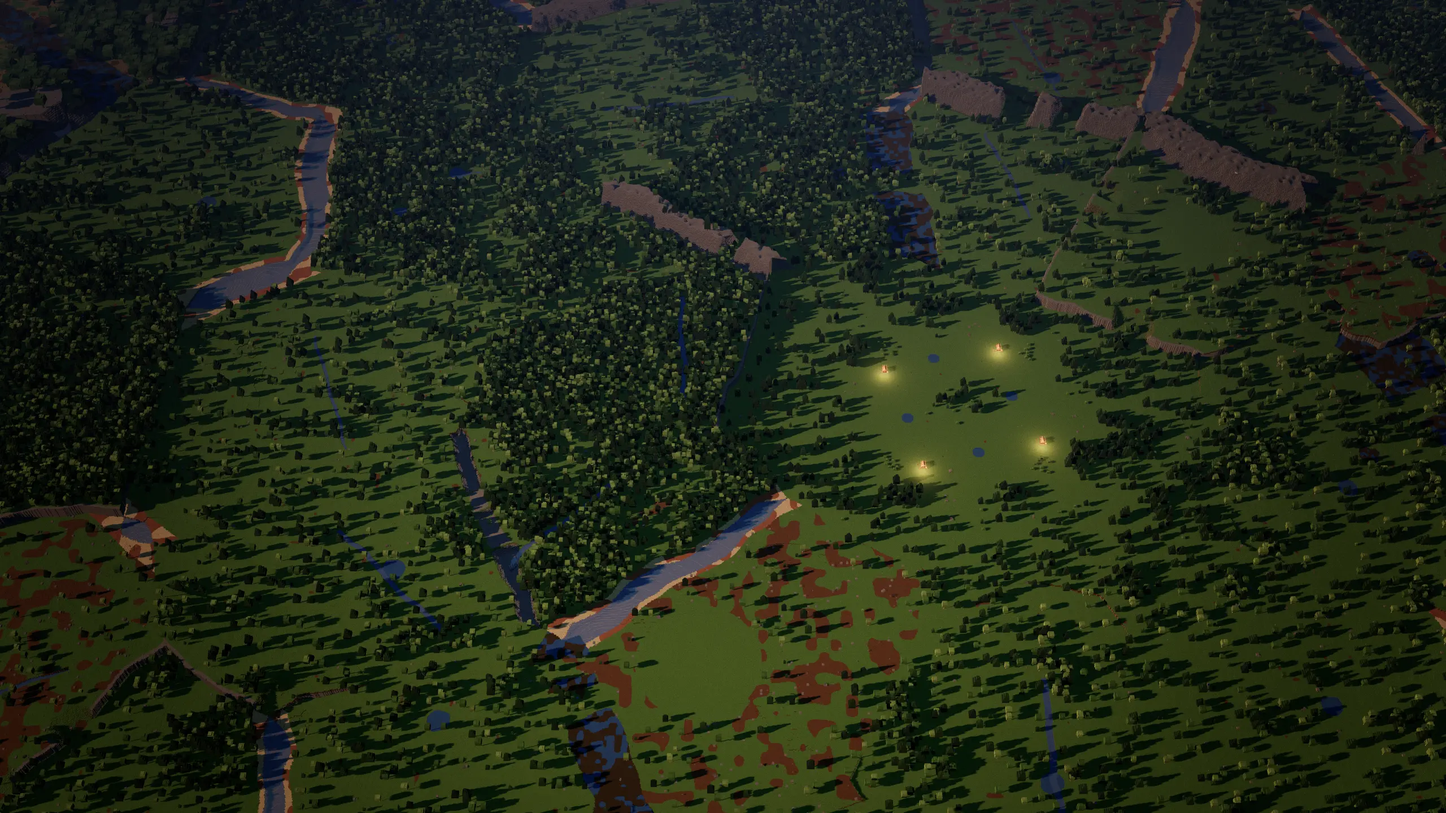
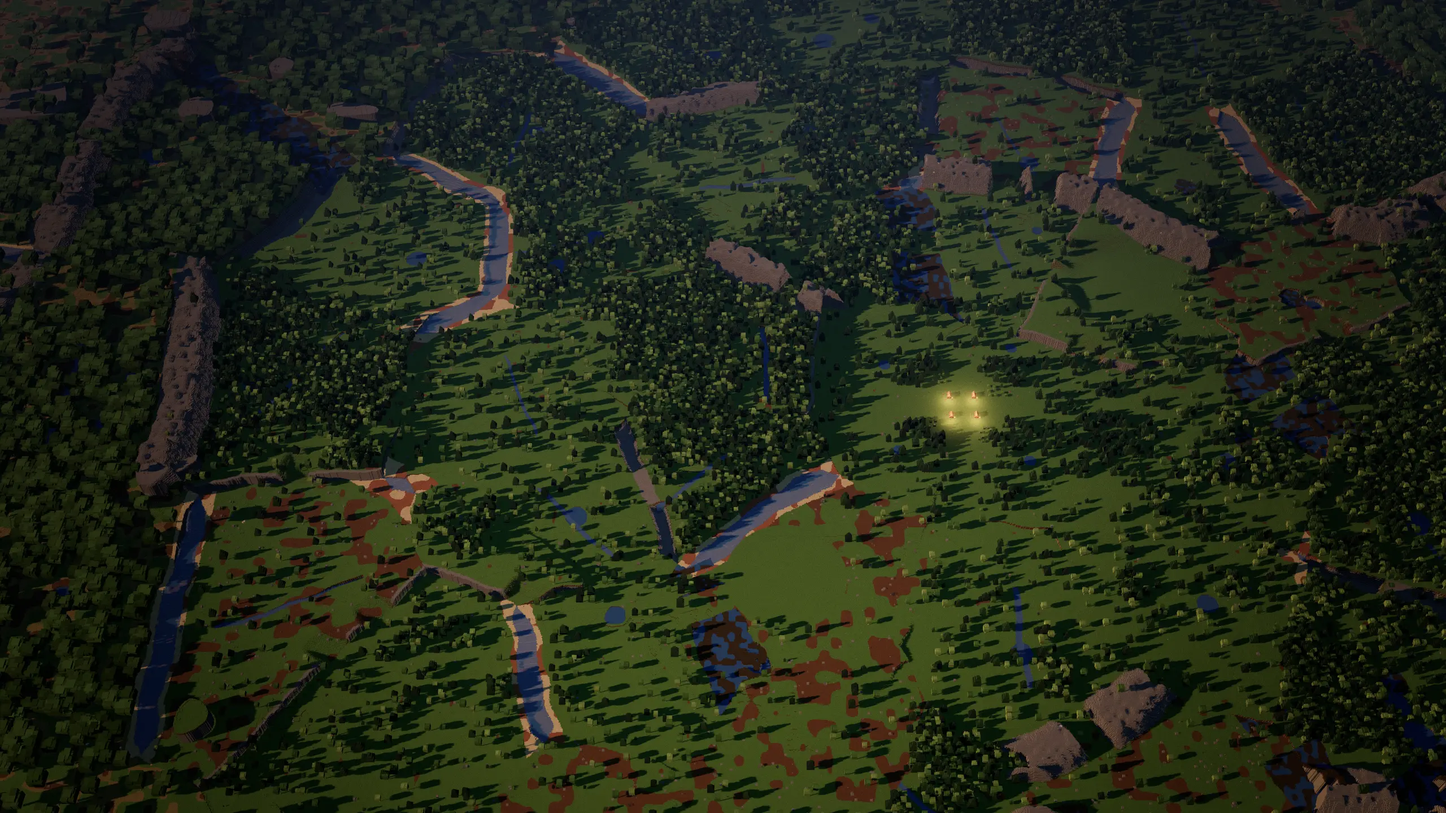
Mini patch: check scripts, README tester section and the lobby picture
The M1 script digs and walks where the two pockets now stand, and the M5
script's dawn threats come in to 70% so its goblin village stands in the
Heartland as before. The README gains a tester section for the mini
patch, its two-player steps say the bases stand 10 to 15 m apart, and
every check-script hash is the current one. The lobby picture is
rendered again with the four camps together.

Claude-Session: https://claude.ai/code/session_01JtCkLcL6SGd2igrQfG6k8f

diff --git a/README.md b/README.md
@@ -105,7 +105,7 @@ steps from seed 1 in Node, Chrome and Firefox and get three identical state
 hashes; a scripted order list replays to the same hash.*
 
 1. `pnpm sim:run --seed 1 --steps 10000 --orders packages/tools/orders/m0-demo.json --quiet`
-   prints `final step 10000 hash 9576406b`. Run it again: the same hash. (The
+   prints `final step 10000 hash 27544deb`. Run it again: the same hash. (The
    M0, M1, M2 and M4 scripts run with `"peaceful": true`, no night mobs, so they
    keep checking the world and the economy; M3's script has the monsters.)
 2. `pnpm test` runs the same seed and script in Node twice and in headless
@@ -114,7 +114,7 @@ hashes; a scripted order list replays to the same hash.*
 3. In a real Chrome or Firefox: `pnpm dev`, open http://localhost:5173/?seed=1
    and watch the step counter and the hash (taken every 20 steps). Until you
    give an order, every machine and browser shows the same hash at the same
-   step as the headless runner with no script: for seed 1 that is `38f7d02b`
+   step as the headless runner with no script: for seed 1 that is `cf52a6d8`
    at step 40 (`pnpm sim:run --seed 1 --steps 40`). Right-click the ground to
    move your units, which changes the hash from then on.
 
@@ -129,7 +129,9 @@ reveal; two machines with the same seed show the same land and the same hash.*
    pick the number of players and press Start. The camera starts over your
    Big House and four workers in your pocket: flat grass with a pond or a
    stream, hazel, trees, loose stone and flint nearby, and the rest of the
-   land black until explored.
+   land black until explored. With two or more players the others' Big
+   Houses stand 10 to 15 m away (see "How a tester checks Jade's mini
+   patch").
 2. Pan with the screen edges, the arrow keys or a middle-button drag; zoom
    with the wheel or Page Up and Page Down; Home resets the zoom. Right-click
    to walk your units out: the land they see turns from black to colour,
@@ -143,15 +145,15 @@ reveal; two machines with the same seed show the same land and the same hash.*
    explores 150 m round the middle of the view, and the minimap fills in
    behind it. **Show all** draws the land without fog on your screen only,
    so you can pan across cells, barrier edges (low hills, ridges, cliffs,
-   ravines, rivers, marshes), their gaps, fords and the next pockets.
+   ravines, rivers, marshes), their gaps and fords.
    **Dig** and **Raise** change the land in the middle of the view, and water
    next to a dug pit flows into it. **Fell** takes everything from the
    selected trees, bushes and rocks: trees fall and drop seeds.
 4. Two machines: open the same seed and player count on both and compare the
    hash in the debug panel at the same step: for seed 1 with one player it is
-   `38f7d02b` at step 40, with two players `a46535dd`. The land matches too.
+   `cf52a6d8` at step 40, with two players `504e575d`. The land matches too.
 5. `pnpm sim:run --seed 1 --steps 10000 --orders packages/tools/orders/m1-world.json --quiet`
-   prints `final step 10000 hash 98ed757d`: two players dig trenches from a
+   prints `final step 10000 hash da955fc7`: two players dig trenches from a
    pond and a stream, raise a wall, fell trees and walk out of the basin.
    `pnpm test` runs it in Node, Chromium, Firefox and WebKit too.
 6. `pnpm --filter @blockyrts/tools map-viewer --seed 1 --size 3000 --edges --out map.png`
@@ -222,7 +224,7 @@ out.* (The warrior joins in milestone 3.)
    notes 1, when Space became Centre on the selection). Every hotkey
    can be rebound in the menu (F10, Hotkeys).
 9. `pnpm sim:run --seed 1 --steps 10000 --orders packages/tools/orders/m2-camp.json --quiet`
-   prints `final step 10000 hash 59f883f0`: workers chop and quarry, the Big
+   prints `final step 10000 hash 6ddf2ec9`: workers chop and quarry, the Big
    House trains a worker rallied onto the trees, a wheat field and a torch
    post go up, farmers farm, the choppers move on to more pines when their
    first trees fall, everyone goes home at dusk and comes out at day, a group
@@ -292,7 +294,7 @@ main base or farm left ends the game with the night count as the score.*
 8. **Losing.** When every worker is dead and no main base or farm stands, the
    game is over and the screen shows the nights survived.
 9. `pnpm sim:run --seed 1 --steps 10000 --orders packages/tools/orders/m3-nights.json --quiet`
-   prints `final step 10000 hash 775e9e68`: two workers raise a gate and a
+   prints `final step 10000 hash aa3f7400`: two workers raise a gate and a
    softwood wall ring while two chop and then join them; the Big House
    trains a long-melee spearman and the three starting warriors walk to it
    to upgrade their cudgels to flint hand-axes (Upgrade Weapon, milestone
@@ -373,7 +375,7 @@ workers but not troops.*
    stretch within 30 m that still has more than half its fish, moving on as
    stretches run low; workers with a rod or net fish from the shore.
 9. `pnpm sim:run --seed 1 --steps 10000 --orders packages/tools/orders/m4-economy.json --quiet`
-   prints `final step 10000 hash a8a6f947`: two workers pick flint while two
+   prints `final step 10000 hash e7a10ea8`: two workers pick flint while two
    chop; a starting warrior hunts with N double-tapped, wears down the deer
    north of the camp with its cudgel, brings the meat home and walks home at
    dusk; a worker prospects (Fair); Rations goes to troops only and the
@@ -476,15 +478,16 @@ dawn.*
    Deadlands) or a minotaur (Deadlands), once disturbed, hunts its quarry
    down.
 10. `pnpm sim:run --seed 1 --steps 10000 --orders packages/tools/orders/m5-threats.json --quiet`
-   prints `final step 10000 hash 3109706c`: the debug tools put a Barracks
+   prints `final step 10000 hash 2cba2f98`: the debug tools put a Barracks
    and a level 4 forge 44 m north with the stock for every tier (Troop kit),
    a barrow 60 m east of the Big House and a cave mouth 60 m west; the
    Barracks trains a crossbow ranger while the three starting warriors
    press Upgrade Weapon Max and Upgrade Armour Max and come back in carbon
    steel and steel; the four wake the barrow's dwellers, break it, take its
    hoard and earn XP; fog rolls in for night 0 and they guard the Big House;
-   at dawn a goblin village goes up 80 m north, a gnoll band to the
-   south-east and a giant beetle to the north-west; they attack the village,
+   at dawn a goblin village goes up 56 m north (80 m before Jade's mini
+   patch brought the Fringe nearer), a gnoll band to the south-east and a
+   giant beetle to the north-west; they attack the village,
    which declares war on the fifth kill, and walk home; then a blood night is
    called for night 1. `pnpm test` runs it in Node, Chromium, Firefox and
    WebKit too. `node packages/client/test-e2e/m5-look.mjs` (with the dev
@@ -629,7 +632,7 @@ and spells), and each script still plays out as its description says.
    throw out motes in the spell's colour, and units with a spell on them
    give off a few.
 8. `pnpm sim:run --seed 1 --steps 10000 --orders packages/tools/orders/m6-mages.json --quiet`
-   prints `final step 10000 hash ffd99362`: the debug tools put a Magi
+   prints `final step 10000 hash 4aff665b`: the debug tools put a Magi
    Sanctum by the Big House, the mage kit in the stock and a troop kit 20 m
    west, and two starting warriors upgrade to carbon steel and steel (Max);
    the Sanctum trains a support and a battle mage and researches Hexcraft,
@@ -742,7 +745,7 @@ updated and still play out as they say).
 9. **The look.** The peoples use their own models (people, buildings,
    wagons, beasts).
 10. `pnpm sim:run --seed 1 --steps 10000 --orders packages/tools/orders/m7-peoples.json --quiet`
-    prints `final step 10000 hash 55764b2d`: the debug tools put a Halfling
+    prints `final step 10000 hash 5283ab9d`: the debug tools put a Halfling
     village 40 m north, a mercenary camp 15 m east, the trade kit in the
     pool and a troop kit 20 m west, and send an Elf caravan; the Barracks
     trains a ranger with wrought-iron arrowheads and two starting warriors
@@ -857,7 +860,7 @@ M7 scripts were updated and still play out as they say).
    stalkers shimmer while cloaked, and the Rift-touched beasts shed violet
    motes until their own textures arrive.
 9. `pnpm sim:run --seed 1 --steps 10000 --orders packages/tools/orders/m8-siege.json --quiet`
-   prints `final step 10000 hash de198e59`: the debug tools make the Big
+   prints `final step 10000 hash 7232501f`: the debug tools make the Big
    House a Citadel, put a Stables 20 m east, a siege kit 20 m west, a goblin
    village 80 m north and a troop kit to the south-east; the Big House
    trains a long-melee spearman and the Stables a bronze cavalry rider, who
@@ -1037,7 +1040,7 @@ milestone are refused with a message saying why.
    Hunt (N) wild geese by Heartland water or pheasants in the Fringe woods for
    meat and feathers, which bow and crossbow rangers need.
 7. `pnpm sim:run --seed 1 --steps 10000 --orders packages/tools/orders/m8-siege.json --quiet`
-   prints `final step 10000 hash de198e59`, as in milestone 8 above.
+   prints `final step 10000 hash 7232501f`, as in milestone 8 above.
 
 ## How a tester checks the model catalogue on mobs
 
@@ -1062,7 +1065,7 @@ Client and assets only: the sim and every hash are unchanged.
 
 Jade's ask (2026-10-03): *your buildings also grant map vision, not just your
 units; in multiplayer all players share vision from all their units and
-buildings.* The step-40 hashes (`38f7d02b`, two players `a46535dd`) and the
+buildings.* The step-40 hashes and the
 M1, M6 and M8 scripts' hashes changed with this patch: the Big House and every
 other building now explore the land round them, and the players keep one
 explored picture. The M0, M2, M3, M4, M5 and M7 scripts keep their hashes,
@@ -1088,8 +1091,8 @@ still load, with every player's explored land joined into one.
    night every building sees half as far. The Big House and towers also mark
    lairs and goblin villages they see on the minimap.
 3. **Two players.** Open `?seed=1&players=2`: both pockets are in colour
-   from the start, and panning to the second pocket shows its units' and
-   buildings' sight as in sight. On two machines in a lobby, what one player's
+   from the start, and the second Big House, 10 to 15 m away, shows its
+   units' and buildings' sight as in sight. On two machines in a lobby, what one player's
    units or buildings explore turns to colour for the other at the same step,
    and lairs, villages and peoples one finds show on the other's minimap.
 4. **Attacks.** Order a warrior to attack a monster far off that only a
@@ -1169,7 +1172,7 @@ were. Run `pnpm dev` and open http://localhost:5173/?seed=1.
    refused with a message. Units walk through the finished tunnel; right-click
    a marked stretch with more workers to help.
 6. `pnpm sim:run --seed 1 --steps 10000 --orders packages/tools/orders/chain-walls.json --quiet`
-   prints `final step 10000 hash e93cff80`: the four workers are given a
+   prints `final step 10000 hash 96087b44`: the four workers are given a
    chain of softwood walls a stretch at a time from (0, 20), east 9, south 5,
    south-west 3, west 6 and north 8 back to the first wall (34 walls, a
    closed ring, from the 40 softwood lumber the camp starts with); a second
@@ -1177,7 +1180,7 @@ were. Run `pnpm dev` and open http://localhost:5173/?seed=1.
    lumber for 6 of its 9 walls, so 6 are planned from its start. All 40
    stand by step 1500.
 7. `pnpm sim:run --seed 1 --steps 10000 --orders packages/tools/orders/chain-tunnel.json --quiet`
-   prints `final step 10000 hash b80a8f7e`: the debug tools heap a soil hill
+   prints `final step 10000 hash 2c745dce`: the debug tools heap a soil hill
    south-east of the camp and the four workers dig a tunnel chain from its
    west face: east 3 columns, south 3, south-east 2 and east 4, out of its
    east side, 480 bites of soil by step 7300; then worker 1 walks to a point
@@ -1619,12 +1622,14 @@ load, and their wild fills afresh round the units.
    take it. **Night mob** in the debug panel brings a gravewing (night 30) to
    see the high flyer's swoop from 12 m.
 5. `pnpm sim:run --seed 1 --steps 10000 --orders packages/tools/orders/wanderers.json --quiet`
-   prints `final step 10000 hash 2c0bb7e4`: the debug tools explore 200 m round the
-   camp, and the three warriors walk 90 m east at dusk and stand there
-   through night 0. About 43 monsters are out at nightfall, round them and
-   round the workers at the camp, up to 68 at once later and 108 over the
-   night; 11 of them go for a unit, and the warriors end the night at about
-   half to five sixths of their health. They walk home at step 8200.
+   prints `final step 10000 hash 4f475c5f`: the debug tools explore 200 m round the
+   camp, and the three warriors walk 90 m east at dusk, into the Fringe
+   since Jade's mini patch, and stand there through night 0. About 27
+   monsters are out at nightfall, round them and round the workers at the
+   camp, up to 72 at once later and 115 over the night; one of them goes for
+   a unit, and night 0's monsters marching on the camp fall on the warriors
+   and kill one; the other two end the night at about three quarters and
+   full health. They walk home at step 8200.
    `pnpm test` runs it in Node, Chromium, Firefox and WebKit too.
 6. `pnpm test` also runs `packages/sim/test/wanderers.test.ts`: where they
    come out (claimed land, lights, units, unexplored land, a peaceful game, a
@@ -2138,6 +2143,55 @@ orders (`mageProduct`, `setKitLock`).*
     hover it for the stalls and the farm fare they eat. A farm shows its
     crop and a bar with "6 in 3:40" on it; a tower or the Citadel "Up top
     0/8" and the men's portraits. Every sentence is in a tooltip.
+
+## How a tester checks Jade's mini patch: where the bases stand and the world's scale
+
+*Jade's ask (2026-10-04): in multiplayer the main bases spawn 10 to 15 m
+apart, measured from the outer edge of each building; with more than four
+players they stand roughly in a line, so no base can be surrounded by the
+others; and the world is smaller only in the distance between rings, and so
+between bands, by about 30%. Picks in blueprint/mini-patch-spawns-picks.md.
+Where the bases stand, their yards, water and iron are
+`packages/sim/src/world/start.ts`; the yards' props and the fit-land checks
+`packages/sim/src/world/generate.ts`; the ring scale `RING_SCALE_PER_MILLE`
+in `packages/sim/src/world/layout.ts`.*
+
+1. **The tests.** `pnpm test` runs packages/sim/test/world.test.ts: every
+   ring and band 30% nearer the start, the cells per ring unchanged; for 2
+   to 8 players over 60 seeds, every pair of bases 10 to 15 m apart edge to
+   edge in a group of 2 to 4, and from 5 players a straight line with each
+   base's neighbours 10 to 15 m away and every other base farther; a game
+   for one still on the basin's middle, with every Halfling village placed;
+   each player's units and Table 9 set beside their own Big House, never
+   nearer another's.
+2. **Two players.** `pnpm dev` and open
+   http://localhost:5173/?seed=1&players=2. The second Big House stands
+   14 m from yours, measured between the edges of the two 6.3 m plots the
+   Big House stands on (the level 1 building does not fill its plot, so
+   the gap looks up to 2 m wider on one side). Your workers and warriors
+   stand on your side, away from the other base; your softwood stand,
+   hazel, copper, tin, stone, flint, water and bog or iron rock lie in your
+   yard on that side, where a worker can walk straight out to each.
+3. **Three and four.** `?seed=1&players=3`: a triangle, 11 to 14 m between
+   each pair. `?seed=1&players=4`: a square, 10.3 m across each side and
+   14.6 m across each diagonal, each yard facing out from its corner.
+4. **Five to eight.** `?seed=1&players=8`, type M N B V C X Z and press
+   **Show all**: eight Big Houses in a straight line about 140 m long, 14 m
+   between neighbours, the yards taking turns either side of the line so a
+   base's yard never borders its neighbour's. The bases at each end have one
+   neighbour and the rest two.
+5. **The bands nearer.** With one player (`?seed=1`), press **Reveal** and
+   **Show all**: the basin's edge, where the Fringe begins, is 63 m from
+   the Big House (90 m before the mini patch), its mixed woods start about
+   50 m out, and the barrier edges are 30% closer together. `pnpm --filter @blockyrts/tools map-viewer
+   --seed 1 --size 3000 --edges --out map.png` draws the cells 30% smaller
+   across. The Big House, the pocket's flat ground, ponds, streams, hills
+   and every building are the size they were.
+6. **Saves.** A save from before the mini patch is refused: "That save is
+   from an older version of the game. Start a new game." (save format 4).
+7. **The balance editor** (once republished from main) has
+   RING_SCALE_PER_MILLE (700) under World and terrain, World layout, and
+   BASE_GAP_MIN_M (10) and BASE_GAP_MAX_M (15) under Start basins.
 
 ## How a tester checks the balance editor
 
